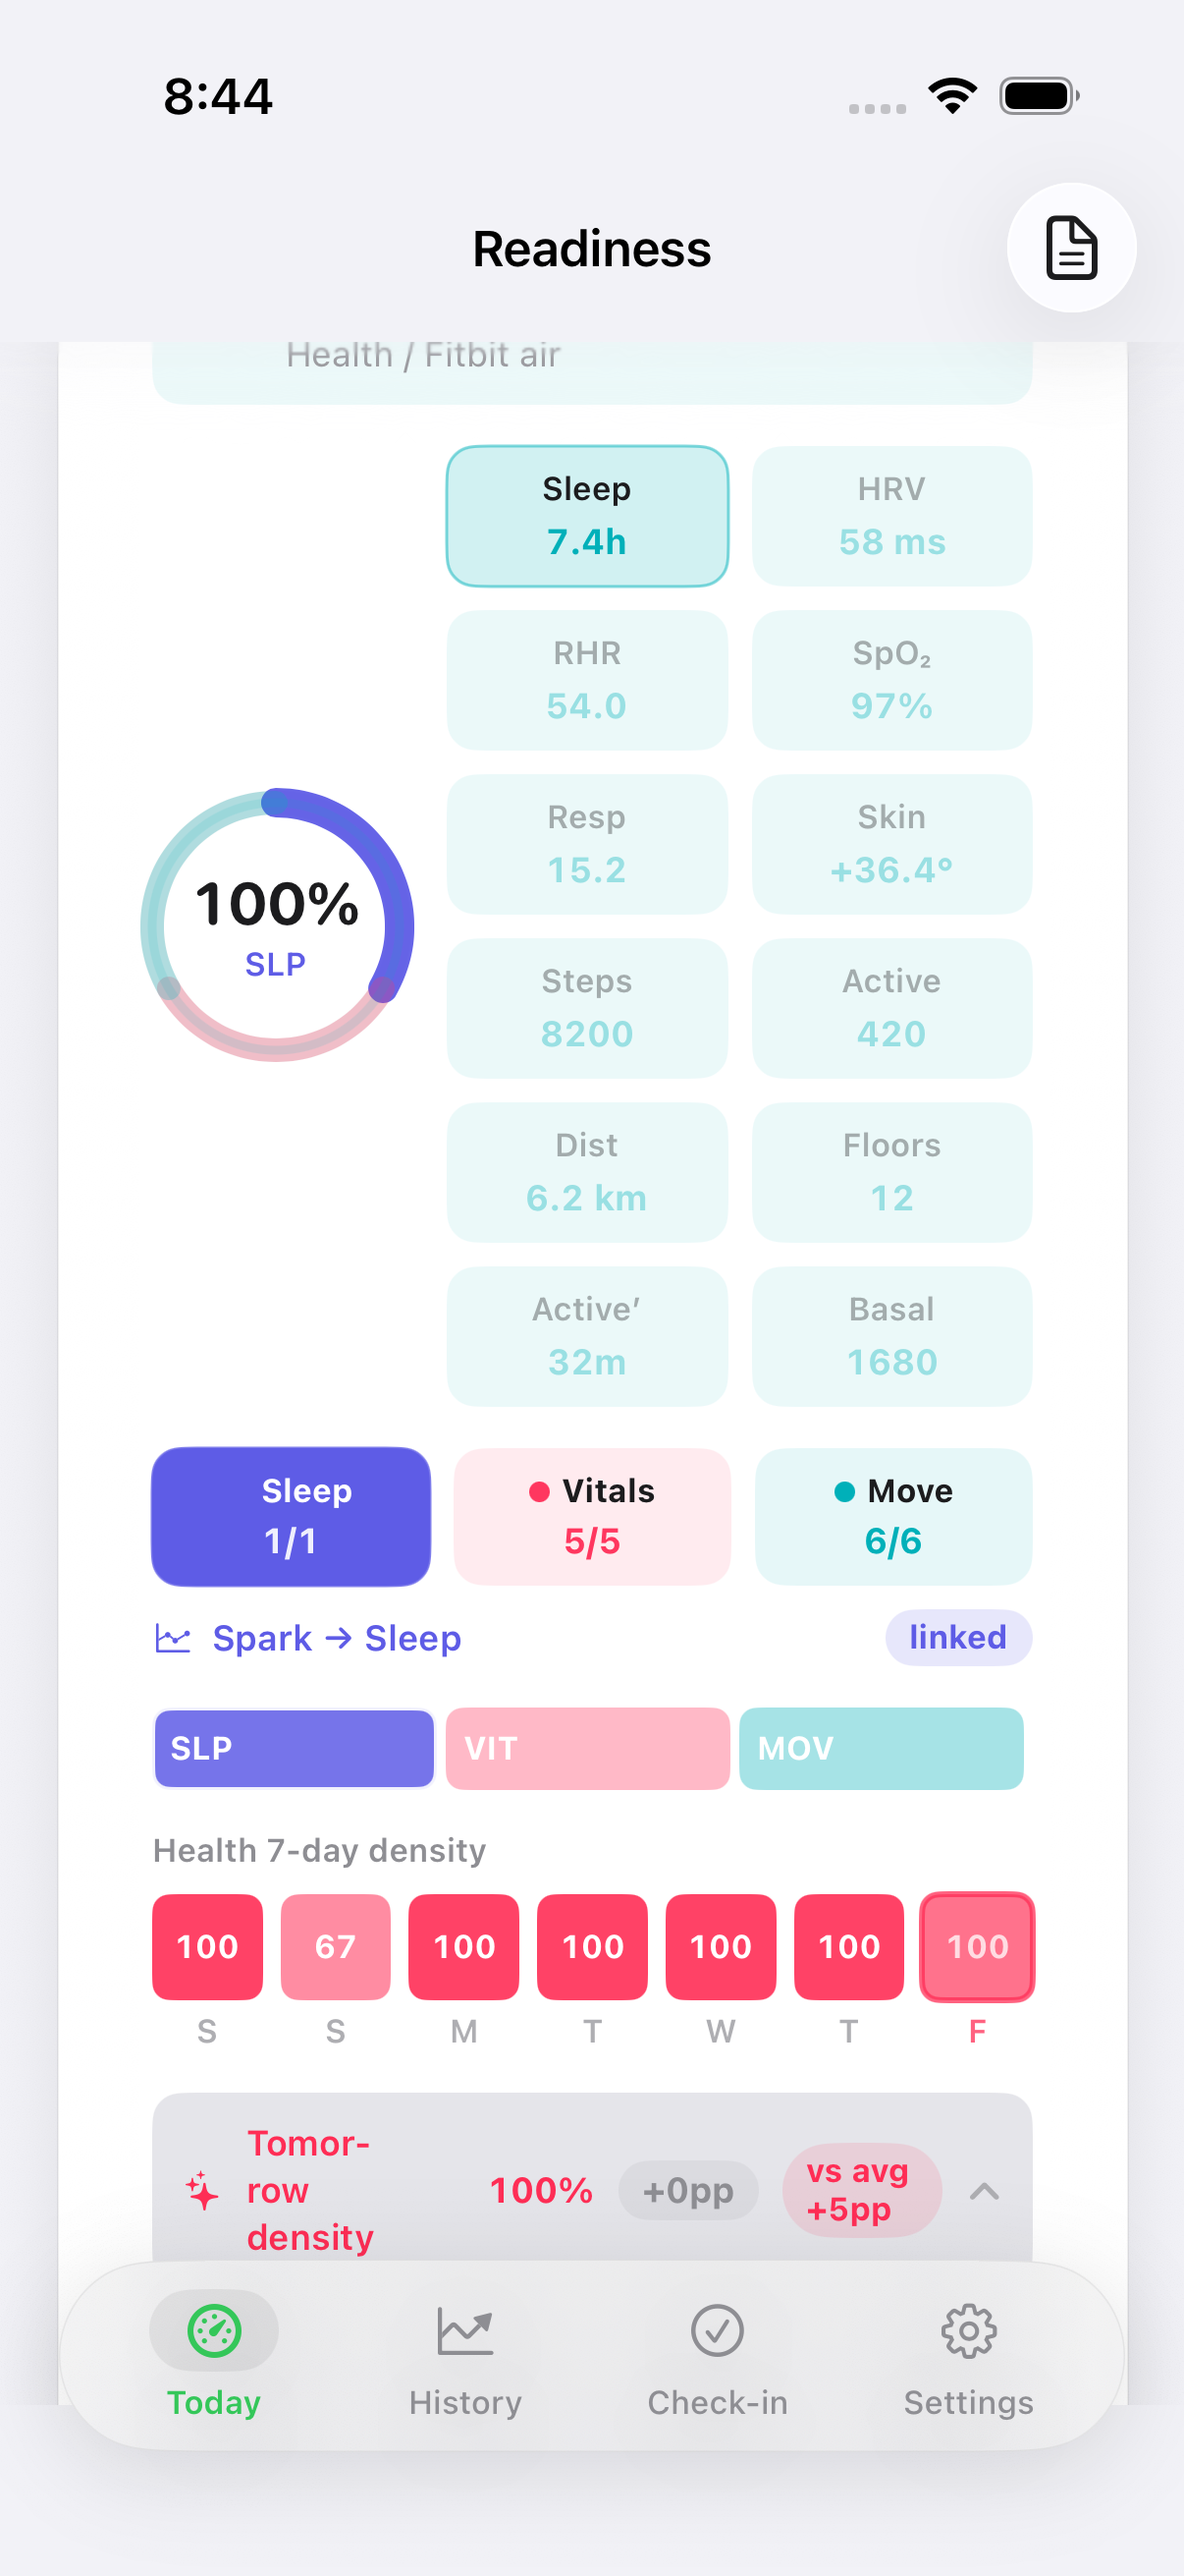
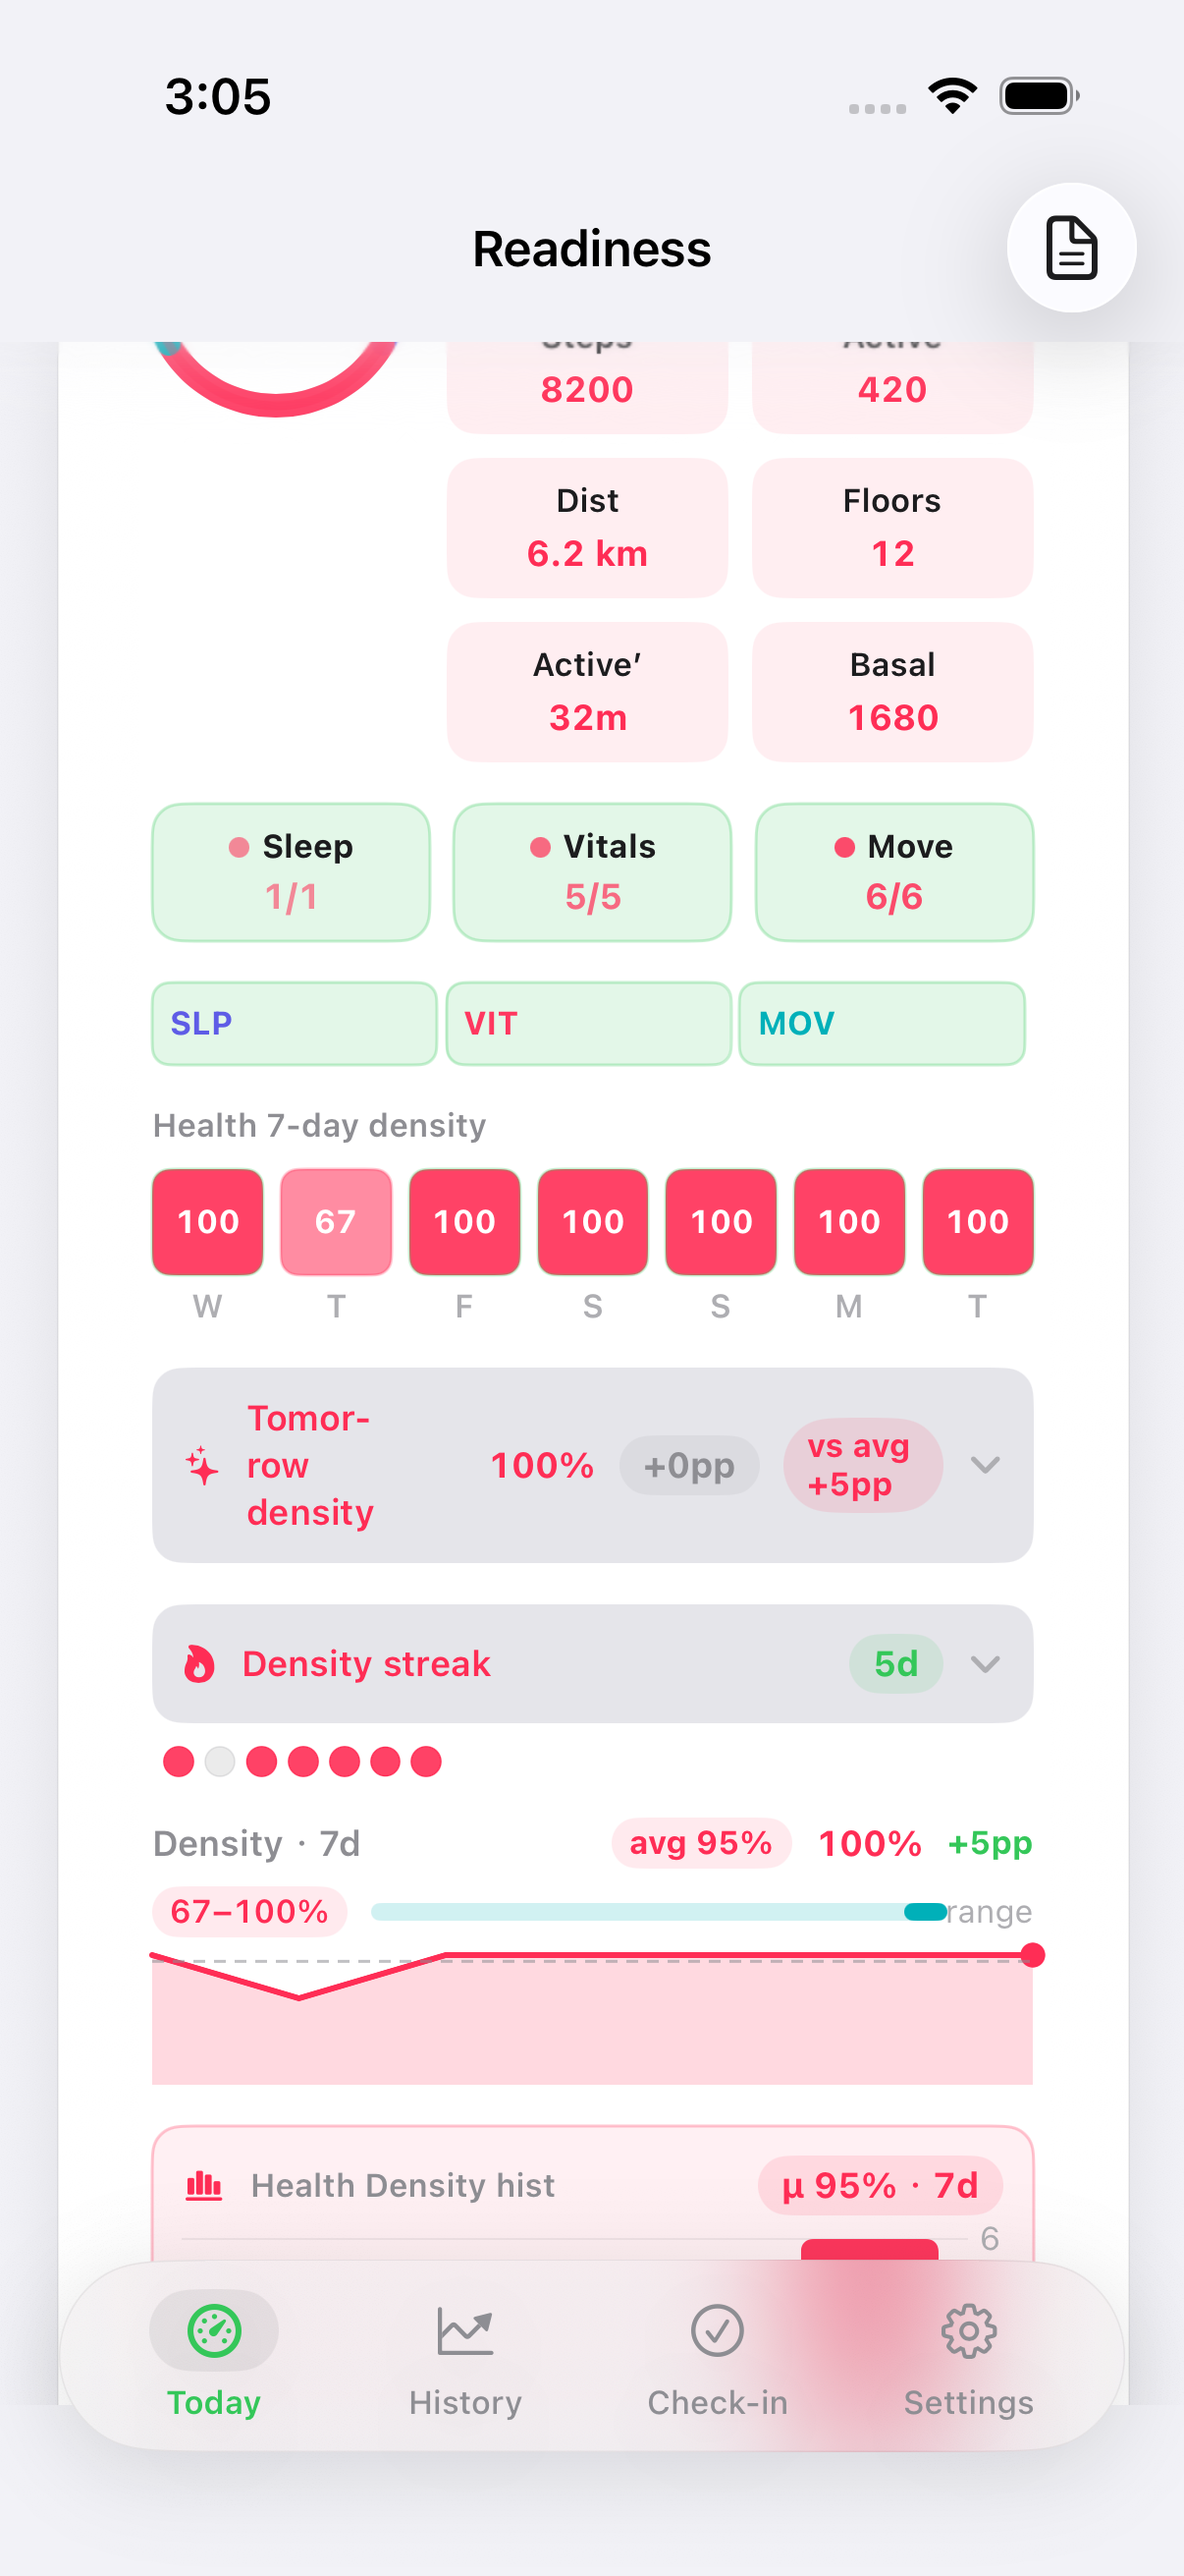
Honest #794: Density heatmap (WHOOP cell chrome) (#824)
Chrome-only restyle of the existing fitbit.air.density.heat /
health.air.density.heat. Idle (dens == 0) ghost/hairline 8/28
secondaryText; active complete (dens == 1) 28% optimal hairline;
else/partial 28% accent hairline. No negative state (density is
non-negative). Selected keeps a thicker hairline. Heat intensity
fill (0.25 / 0.55 / 0.9) is preserved and is not replaced by a
uniform 8/14 wash. Copy, accessibilityIdentifier,
accessibilityLabel, tap-to-select / spark-scrub math, and READY
formula unchanged.

UITest testDensityHeatmap passed 182.452s, 0
failures (observer 195.631s) on iPhone 17 Pro.
testReadinessLoadSimulatorSurface passed 781.520s, 0 failures
(observer 787.037s) on iPhone 17 Pro. Proof:
.audit/verify-density-heat.png

diff --git a/ReadinessTracker/Views/WhoopFeatures/FitbitAirDataCard.swift b/ReadinessTracker/Views/WhoopFeatures/FitbitAirDataCard.swift
@@ -818,6 +818,7 @@ struct FitbitAirDataCard: View {
 
     /// Honest #525/#526: interactive 7-day density heatmap; tap selects day + scrub spark.
     /// Honest #684: appleWatch / HealthKit uses Health pink + health.air.density.heat (#525 parity).
+    /// Honest #794: WHOOP cell chrome; heat intensity fill (0.25 / 0.55 / 0.9) preserved.
     private var densityHeatmap: some View {
         let days = Array(history.suffix(7))
         let isHealth = source == .appleWatch
@@ -835,6 +836,21 @@ struct FitbitAirDataCard: View {
                     let filled = dayChips.filter(\.filled).count
                     let dens = dayChips.isEmpty ? 0.0 : Double(filled) / Double(dayChips.count)
                     let selected = selectedHeatDayOffset == i
+                    // Honest #794: WHOOP cell chrome on existing density heatmap.
+                    // Intensity fill (0.25 / 0.55 / 0.9) stays the heat encoding
+                    // and is not replaced by a uniform 8/14 wash. Idle (dens == 0)
+                    // uses ghost/hairline 8/28 secondaryText in place of the empty
+                    // surfaceHighlight. Active complete (dens == 1) 28% optimal
+                    // hairline; else/partial 28% accent hairline. Selected keeps a
+                    // thicker hairline. No negative state (density is non-negative).
+                    let cellIsActive = dens > 0
+                    let cellComplete = !dayChips.isEmpty && filled >= dayChips.count
+                    let cellWellTone: Color = !cellIsActive
+                        ? RTColor.secondaryText
+                        : (cellComplete ? RTColor.optimal : heatAccent)
+                    let cellFill: Color = !cellIsActive
+                        ? RTColor.secondaryText.opacity(0.08)
+                        : heatmapColor(dens, heatAccent: heatAccent)
                     Button {
                         Haptic.selectionChanged()
                         selectedHeatDayOffset = selectedHeatDayOffset == i ? nil : i
@@ -847,7 +863,7 @@ struct FitbitAirDataCard: View {
                     } label: {
                         VStack(spacing: 4) {
                             RoundedRectangle(cornerRadius: 6, style: .continuous)
-                                .fill(heatmapColor(dens, heatAccent: heatAccent))
+                                .fill(cellFill)
                                 .frame(height: 36)
                                 .overlay(
                                     Text("\(Int((dens * 100).rounded()))")
@@ -856,7 +872,7 @@ struct FitbitAirDataCard: View {
                                 )
                                 .overlay(
                                     RoundedRectangle(cornerRadius: 6, style: .continuous)
-                                        .stroke(selected ? heatAccent : Color.clear, lineWidth: 2)
+                                        .stroke(cellWellTone.opacity(0.28), lineWidth: selected ? 1.5 : 1)
                                 )
                             Text(day.date, format: .dateTime.weekday(.narrow))
                                 .font(.caption2.weight(.semibold))

diff --git a/ReadinessTrackerUITests/SurfacesUITests.swift b/ReadinessTrackerUITests/SurfacesUITests.swift
@@ -18389,7 +18389,46 @@ func testPeakHeartRateCardMetricDetailNavSurface() throws {
         if stackHealth.exists { saveShot("verify-health-air-density-stack.png") }
     }
 
+    /// Honest #794: WHOOP cell chrome on existing density heatmap.
+    /// Tight path to the on-card 7-day heat (fitbit.air.density.heat /
+    /// health.air.density.heat) without the long testFitbitAirDataCardSurface
+    /// walk that can hang on spark swipe-down.
+    func testDensityHeatmap() throws {
+        _ = app.staticTexts["Readiness"].waitForExistence(timeout: 8)
+        let titleFitbit = app.staticTexts["Fitbit Air"]
+        let titleHealth = app.staticTexts["Health Air"]
+        // Titles exist in the scroll hierarchy off-screen at launch; scroll until
+        // one is actually in the visible window (exists-only loops never moved).
+        var n = 0
+        while !(isOnScreen(titleFitbit) || isOnScreen(titleHealth)) && n < 30 {
+            app.swipeUp()
+            n += 1
+        }
+        XCTAssertTrue(isOnScreen(titleFitbit) || isOnScreen(titleHealth),
+                      "Fitbit Air / Health Air on-screen")
+
+        let heatFitbit = app.descendants(matching: .any)["fitbit.air.density.heat"].firstMatch
+        let heatHealth = app.descendants(matching: .any)["health.air.density.heat"].firstMatch
+        // Heatmap sits directly under the density stacked bar, just below the
+        // card title. A small number of swipes is enough; large loops overscroll
+        // the meter stack.
+        var h = 0
+        while !(isOnScreen(heatFitbit) || isOnScreen(heatHealth)) && h < 6 {
+            app.swipeUp()
+            h += 1
+        }
+        XCTAssertTrue(heatFitbit.exists || heatHealth.exists
+                      || app.staticTexts.matching(NSPredicate(format: "label CONTAINS[c] %@", "seven day air density heatmap")).count > 0
+                      || app.staticTexts["7-day density"].exists
+                      || app.staticTexts["Health 7-day density"].exists,
+                      "fitbit.air.density.heat / health.air.density.heat")
+        saveShot("verify-density-heat.png")
+        if heatFitbit.exists { saveShot("verify-fitbit-air-density-heatmap.png") }
+        if heatHealth.exists { saveShot("verify-health-air-density-heatmap.png") }
+    }
+
     private func revealText(_ text: String) {
+
         let el = app.staticTexts[text]
         var n = 0
         while !isOnScreen(el) && n < 16 {

diff --git a/ReadinessTracker/Design/Theme.swift b/ReadinessTracker/Design/Theme.swift
@@ -235,7 +235,7 @@ enum SurfaceID {
     static let healthAirDataSparkDelta = "health.air.spark.delta"  // Honest #699
     static let readinessSimulatorABSnapshot = "sim.load.ab.snap"  // Honest #520 / #724
     static let fitbitAirDensityRingCycle = "fitbit.air.density.cycle"  // Honest #521
-    static let fitbitAirDensityHeatmap = "fitbit.air.density.heat"  // Honest #525
+    static let fitbitAirDensityHeatmap = "fitbit.air.density.heat"  // Honest #525 / #794
     static let fitbitAirDensityHeatDay = "fitbit.air.density.heat.day"  // Honest #526
     static let fitbitAirDensityWow = "fitbit.air.density.wow"  // Honest #527
     static let interactiveRecoveryDialZones = "balance.dial.zones"  // Honest #522
@@ -377,7 +377,7 @@ enum SurfaceID {
     static let healthAirDensityForecastBand = "health.air.density.forecast.band"  // Honest #681
     static let healthAirDensityStreak = "health.air.density.streak"  // Honest #682
     static let healthAirDensityForecast = "health.air.density.forecast"  // Honest #683
-    static let healthAirDensityHeat = "health.air.density.heat"  // Honest #684
+    static let healthAirDensityHeat = "health.air.density.heat"  // Honest #684 / #794
     static let healthAirDensityCycle = "health.air.density.cycle"  // Honest #685
     static let healthAirDensityStack = "health.air.density.stack"  // Honest #686 / #793
     static let healthAirDensityWow = "health.air.density.wow"  // Honest #687

diff --git a/.audit/decision-log-2026-11-04.md b/.audit/decision-log-2026-11-04.md
@@ -608,3 +608,11 @@
 | 14:37 HKT | #793 density stacked bar | prove | starting UITest testReadinessLoadSimulatorSurface /tmp/RT-DD793; model=deepseek-flash | mid-ship |
 | 14:52 HKT | #793 density stacked bar | prove | UITest testReadinessLoadSimulatorSurface green /tmp/RT-DD793 (769.880s, 0 failures; observer 776.210s); model=deepseek-flash |
 | 14:52 HKT | #793 density stacked bar | land | proof PNG + receipt; SID fitbit.air.density.stack / health.air.density.stack; PR squash next; model=deepseek-flash |
+
+| 14:56 HKT | Honest #794 density heatmap | model=deepseek-flash | restyle existing fitbit.air.density.heat / health.air.density.heat after density stack #793; WHOOP cell chrome only; heat intensity fill (0.25 / 0.55 / 0.9) preserved (not flattened to 8/14 wash); idle (dens == 0) ghost/hairline 8/28 secondaryText; active complete (dens == 1) 28% optimal hairline; else/partial 28% accent hairline; selected thicker hairline; no negative state; mechanical pattern-copy of #793 fill-complete tones applied locally (no separate model iterate needed) | mid-ship |
+| 14:56 HKT | Honest #794 density heatmap | prove | starting build-for-testing /tmp/RT-DD794; model=deepseek-flash | mid-ship |
+| 15:02 HKT | #794 density heatmap | prove | starting tight UITest testDensityHeatmap /tmp/RT-DD794; model=deepseek-flash | mid-ship |
+| 15:06 HKT | #794 density heatmap | prove | UITest testDensityHeatmap green /tmp/RT-DD794 (182.452s, 0 failures; observer 195.631s); proof .audit/verify-density-heat.png (Health 7-day density, 100% cells heat 0.9 (255,66,102) 72749 hits; 67% cell heat 0.55 (255,140,162) 11588 hits; intensity not flattened to 8/14 wash); model=deepseek-flash |
+| 15:06 HKT | #794 density heatmap | prove | starting UITest testReadinessLoadSimulatorSurface /tmp/RT-DD794; model=deepseek-flash | mid-ship |
+| 15:20 HKT | #794 density heatmap | prove | UITest testReadinessLoadSimulatorSurface green /tmp/RT-DD794 (781.520s, 0 failures; observer 787.037s); model=deepseek-flash |
+| 15:20 HKT | #794 density heatmap | land | proof PNG + receipt; SID fitbit.air.density.heat / health.air.density.heat; PR squash next; model=deepseek-flash |

diff --git a/.audit/density-heat.md b/.audit/density-heat.md
@@ -1,0 +1,11 @@
+# Honest #525 / #684 / #794: Density heatmap (WHOOP cell chrome)
+
+Fitbit/Health on-card 7-day density heatmap.
+Chrome-only WHOOP cell hairlines on the existing Honest #525 / #684 heatmap.
+Idle (dens == 0) = ghost/hairline 8/28 using secondaryText in place of the empty surfaceHighlight.
+Active complete (dens == 1) = 28% optimal hairline; else/partial = 28% accent hairline.
+Selected keeps a thicker hairline. No negative state (density is non-negative).
+Heat intensity fill (0.25 / 0.55 / 0.9) is preserved and is not replaced by a uniform 8/14 wash.
+Copy, accessibilityIdentifier, accessibilityLabel, tap-to-select / spark-scrub math, and READY formula unchanged.
+SurfaceID: `fitbit.air.density.heat` / `health.air.density.heat`
+Proof: `.audit/verify-density-heat.png`

diff --git a/.audit/features/density-heat.md b/.audit/features/density-heat.md
@@ -1,0 +1,8 @@
+# Honest #525 / #684 / #794: Density heatmap (WHOOP cell chrome)
+
+Chrome-only WHOOP cell hairlines on the existing density heatmap (`fitbit.air.density.heat` / `health.air.density.heat`).
+Idle (dens == 0) = ghost/hairline 8/28 using secondaryText; active complete (dens == 1) = 28% optimal hairline; else/partial = 28% accent hairline. No negative state (density is non-negative).
+Heat intensity fill (0.25 / 0.55 / 0.9) is preserved and is not replaced by a uniform 8/14 wash.
+Copy, accessibilityIdentifier, accessibilityLabel, tap-to-select / spark-scrub math, and READY formula unchanged.
+SurfaceID: `fitbit.air.density.heat` / `health.air.density.heat`
+Proof: UITest → `.audit/verify-density-heat.png`

diff --git a/.audit/features/health-air-density-heat.md b/.audit/features/health-air-density-heat.md
@@ -1,7 +1,7 @@
-# Honest #684: Health Air density heat
+# Honest #684 / #794: Health Air density heat (WHOOP cell chrome)
 
-7-day density heatmap (Health pink / Google Health graphics).
+7-day density heatmap (Health pink / Google Health graphics) — chrome-only WHOOP cell hairlines. Heat intensity fill (0.25 / 0.55 / 0.9) preserved.
 SurfaceID: `health.air.density.heat`
 Parity: Fitbit #525 (`fitbit.air.density.heat`)
-Proof: `.audit/verify-health-air-density-heatmap.png`
+Proof: `.audit/verify-density-heat.png` / `.audit/verify-health-air-density-heatmap.png`
 model=deepseek-flash

diff --git a/.audit/health-air-density-heat.md b/.audit/health-air-density-heat.md
@@ -1,7 +1,7 @@
-# Honest #684: Health Air density heat
+# Honest #684 / #794: Health Air density heat (WHOOP cell chrome)
 
-7-day density heatmap (Health pink / Google Health graphics).
+7-day density heatmap (Health pink / Google Health graphics) — chrome-only WHOOP cell hairlines. Heat intensity fill (0.25 / 0.55 / 0.9) preserved.
 SurfaceID: `health.air.density.heat`
 Parity: Fitbit #525 (`fitbit.air.density.heat`)
-Proof: `.audit/verify-health-air-density-heatmap.png`
+Proof: `.audit/verify-density-heat.png` / `.audit/verify-health-air-density-heatmap.png`
 model=deepseek-flash

diff --git a/.audit/fitbit-air-density-heatmap.md b/.audit/fitbit-air-density-heatmap.md
@@ -1,4 +1,3 @@
-Honest #525: Fitbit Air 7-day density heatmap
+Honest #525 / #794: Fitbit Air 7-day density heatmap (WHOOP cell chrome)
 SurfaceID fitbit.air.density.heat
-Proof: UITest testFitbitAirDataCardSurface PASS iPhone 17 Pro 26.5
-.audit/verify-fitbit-air-density-heatmap.png
+Proof: UITest testDensityHeatmap → .audit/verify-density-heat.png / .audit/verify-fitbit-air-density-heatmap.png
